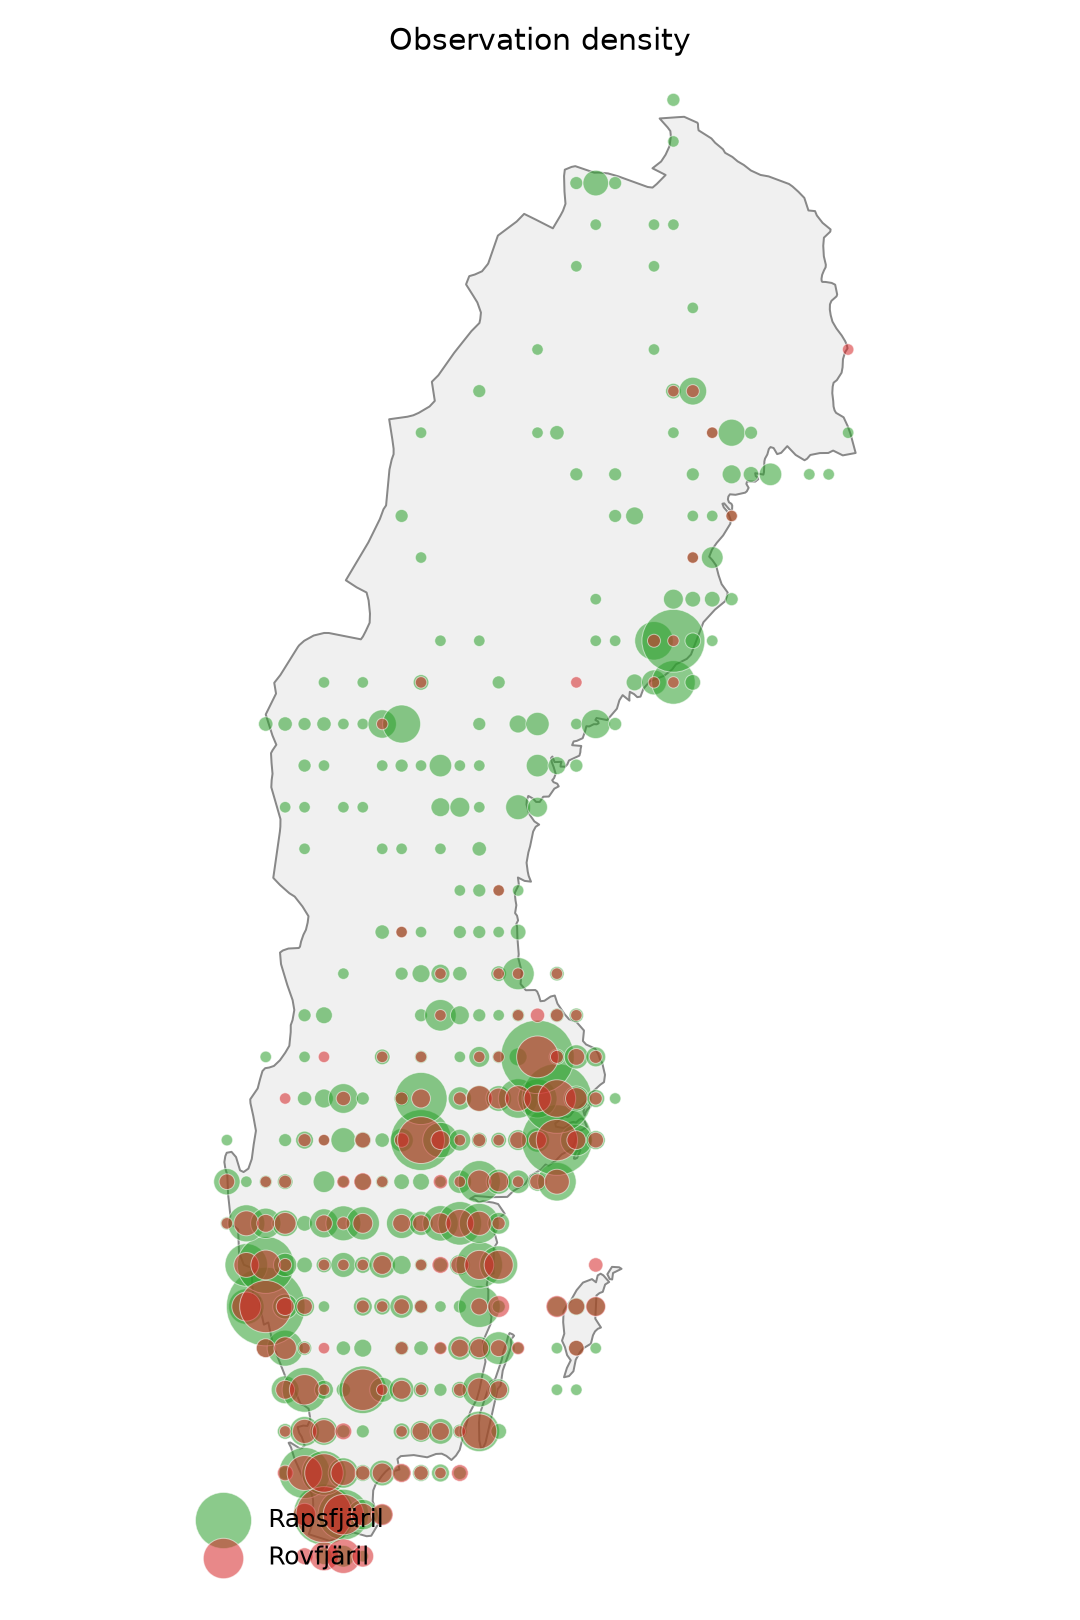
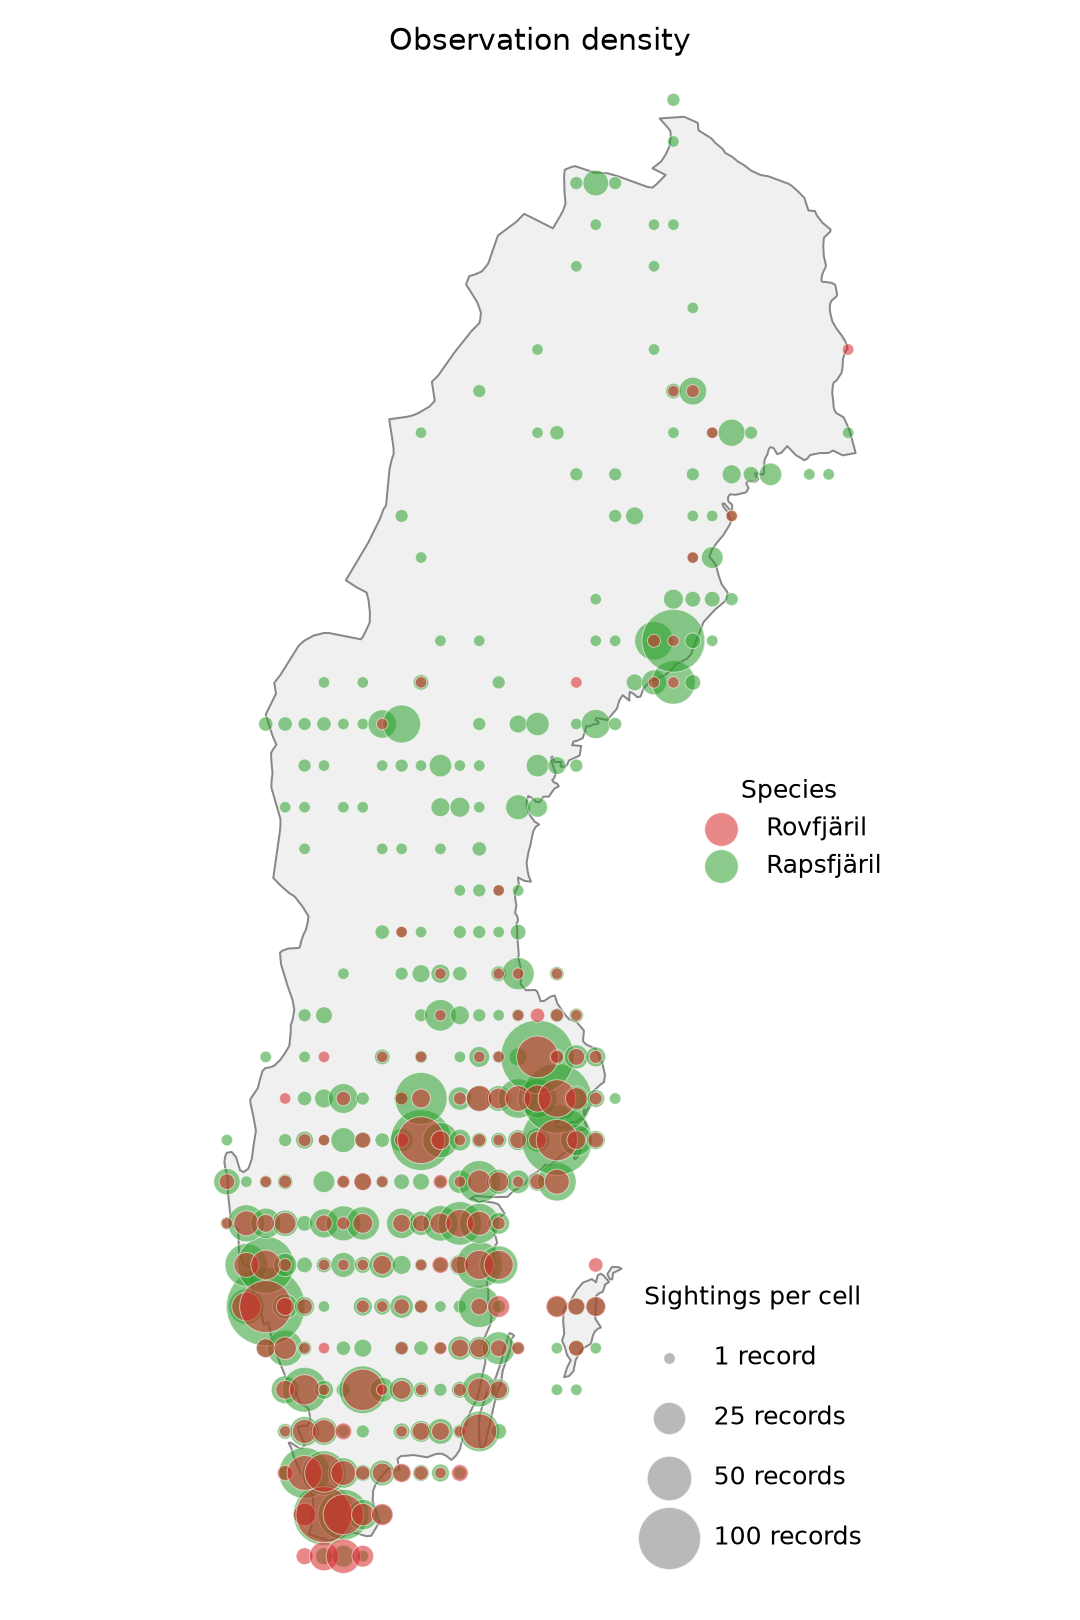
improved observation map

diff --git a/butterflymap-Lovisa.py b/butterflymap-Lovisa.py
@@ -62,6 +62,13 @@ LAT_BANDS = [
     (60.5, 90, "North"),
 ]
 
+# Colors used for each species on the map (any matplotlib color works: hex
+# codes like "#d62728", or names like "crimson", "steelblue", etc.)
+SPECIES_COLORS = {
+    "Rovfjäril": "#d62728",   # red
+    "Rapsfjäril": "#2ca02c",  # green
+}
+
 MONTH_NAMES = ["Jan", "Feb", "Mar", "Apr", "May", "Jun",
                "Jul", "Aug", "Sep", "Oct", "Nov", "Dec"]
 
@@ -191,7 +198,18 @@ def get_sweden_outline():
     return gpd.read_file(SWEDEN_GEOJSON_PATH)
 
 
-def build_density_map(dfs_by_species, outfile, cell_size=0.4):
+MARKER_BASE_SIZE = 15   # base marker area (points^2) even for a count of 1
+MARKER_SCALE = 6        # additional area per record in the grid cell
+
+
+def marker_size(count):
+    """Marker area for a given record count -- used both for plotting and
+    for building the matching size legend, so they always stay in sync."""
+    return MARKER_BASE_SIZE + count * MARKER_SCALE
+
+
+def build_density_map(dfs_by_species, outfile, cell_size=0.4,
+                       size_legend_counts=(1, 25, 50, 100)):
     """
     Aggregates points into a grid before plotting -- with thousands of raw
     points the map becomes unreadable. cell_size is in degrees (0.4 degrees
@@ -199,10 +217,13 @@ def build_density_map(dfs_by_species, outfile, cell_size=0.4):
     Saves a static PNG.
     """
     sweden = get_sweden_outline()
-    palette = ["#d62728", "#2ca02c", "#1f77b4", "#9467bd", "#ff7f0e"]
-    # Fix each species' color by its original (input dict) order, so colors
-    # stay consistent no matter which species has more records this run.
-    color_map = {sp: palette[i % len(palette)] for i, sp in enumerate(dfs_by_species)}
+    fallback_palette = ["#1f77b4", "#9467bd", "#ff7f0e", "#8c564b"]
+    # Colors come from SPECIES_COLORS at the top of this file; any species
+    # not listed there falls back to the palette above, cycled by order.
+    color_map = {
+        sp: SPECIES_COLORS.get(sp, fallback_palette[i % len(fallback_palette)])
+        for i, sp in enumerate(dfs_by_species)
+    }
 
     fig, ax = plt.subplots(figsize=(6, 9))
     sweden.plot(ax=ax, color="#f0f0f0", edgecolor="#888888", linewidth=0.8)
@@ -222,11 +243,9 @@ def build_density_map(dfs_by_species, outfile, cell_size=0.4):
             .size()
             .reset_index(name="count")
         )
-        # marker area (not radius) scales with count so size is a fair visual cue
-        sizes = 15 + grid["count"] * 6
         ax.scatter(
             grid["glon"], grid["glat"],
-            s=sizes, color=color, alpha=0.55,
+            s=marker_size(grid["count"]), color=color, alpha=0.55,
             edgecolor="white", linewidth=0.4,
             label=species,
         )
@@ -235,7 +254,28 @@ def build_density_map(dfs_by_species, outfile, cell_size=0.4):
     ax.set_ylim(sweden.total_bounds[1] - 0.5, sweden.total_bounds[3] + 0.5)
     ax.set_axis_off()
     ax.set_title("Observation density")
-    ax.legend(loc="lower left", frameon=False)
+
+    # Species (color) legend
+    species_handles = [
+    plt.scatter([], [], s=180, color=color_map[sp], alpha=0.55,
+                edgecolor="white", linewidth=0.4, label=sp)
+    for sp in color_map
+]
+    species_legend = ax.legend(handles=species_handles, loc="center right",
+                            frameon=False, title="Species")
+    ax.add_artist(species_legend)  # so the size legend below doesn't replace it
+
+    # Size legend: grey proxy dots at a few reference counts, using the same
+    # marker_size() formula as the real data so it's an honest key.
+    size_handles = [
+        plt.scatter([], [], s=marker_size(c), color="grey", alpha=0.55,
+                    edgecolor="white", linewidth=0.4,
+                    label=f"{c} record" if c == 1 else f"{c} records")
+        for c in size_legend_counts
+    ]
+    ax.legend(handles=size_handles, loc="lower right", frameon=False,
+              title="Sightings per cell", labelspacing=1.4, borderpad=1.2)
+
     plt.tight_layout()
     plt.savefig(outfile, dpi=180)
     plt.close()
